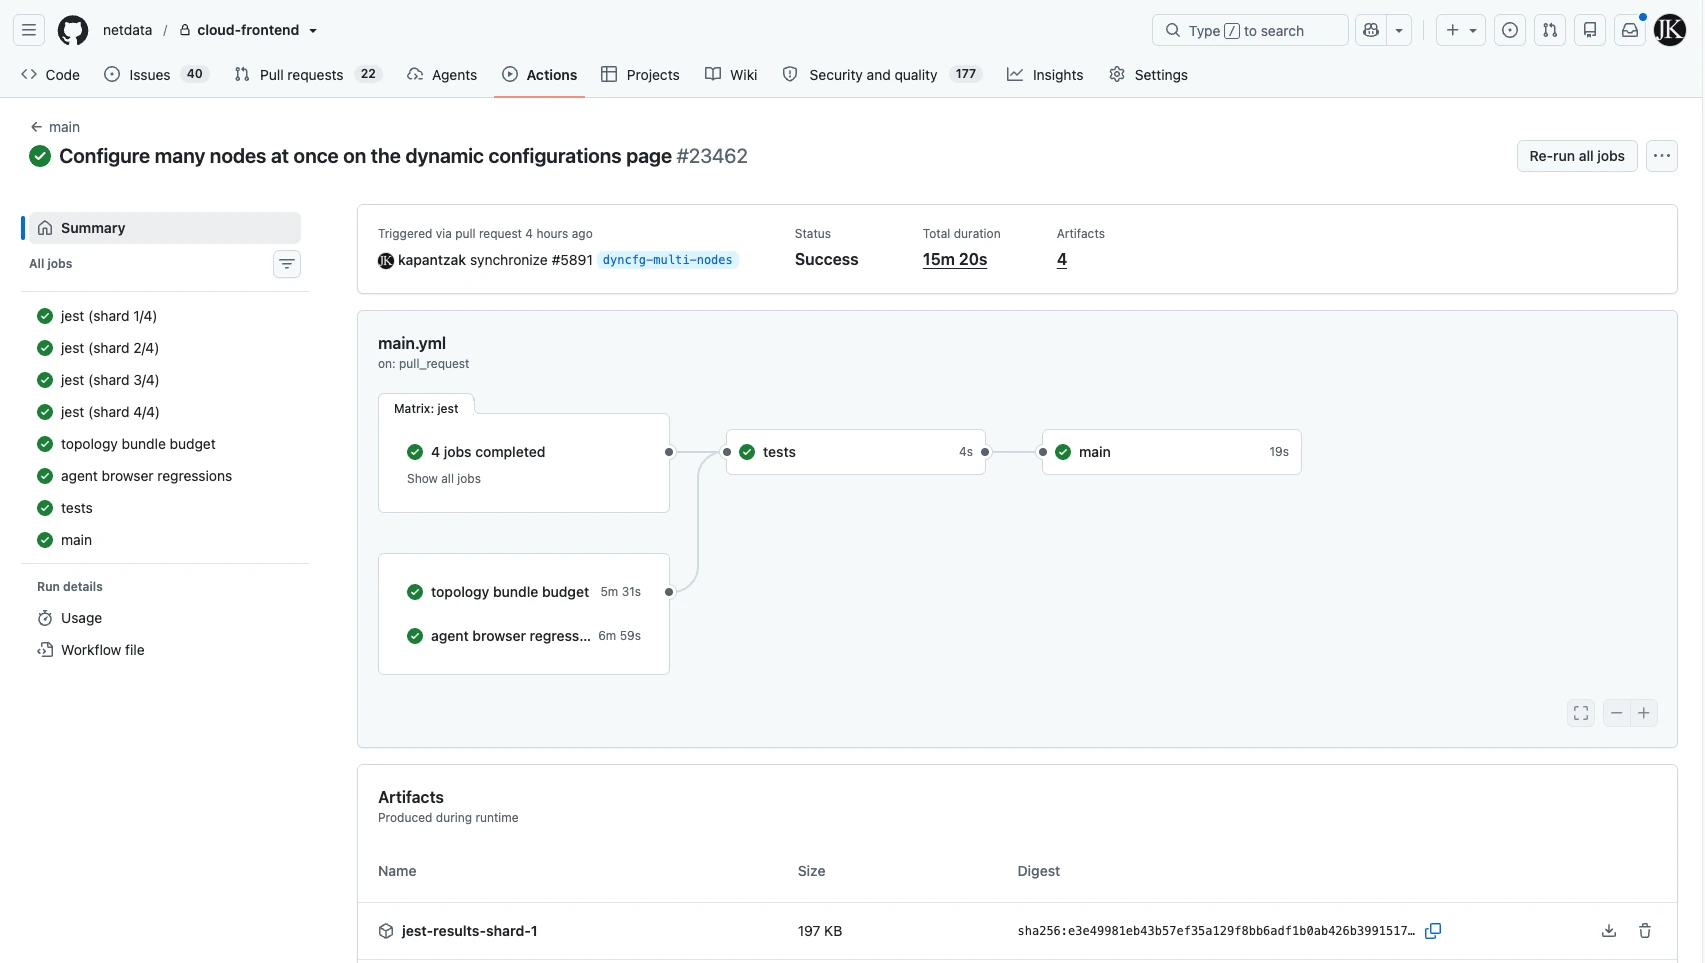
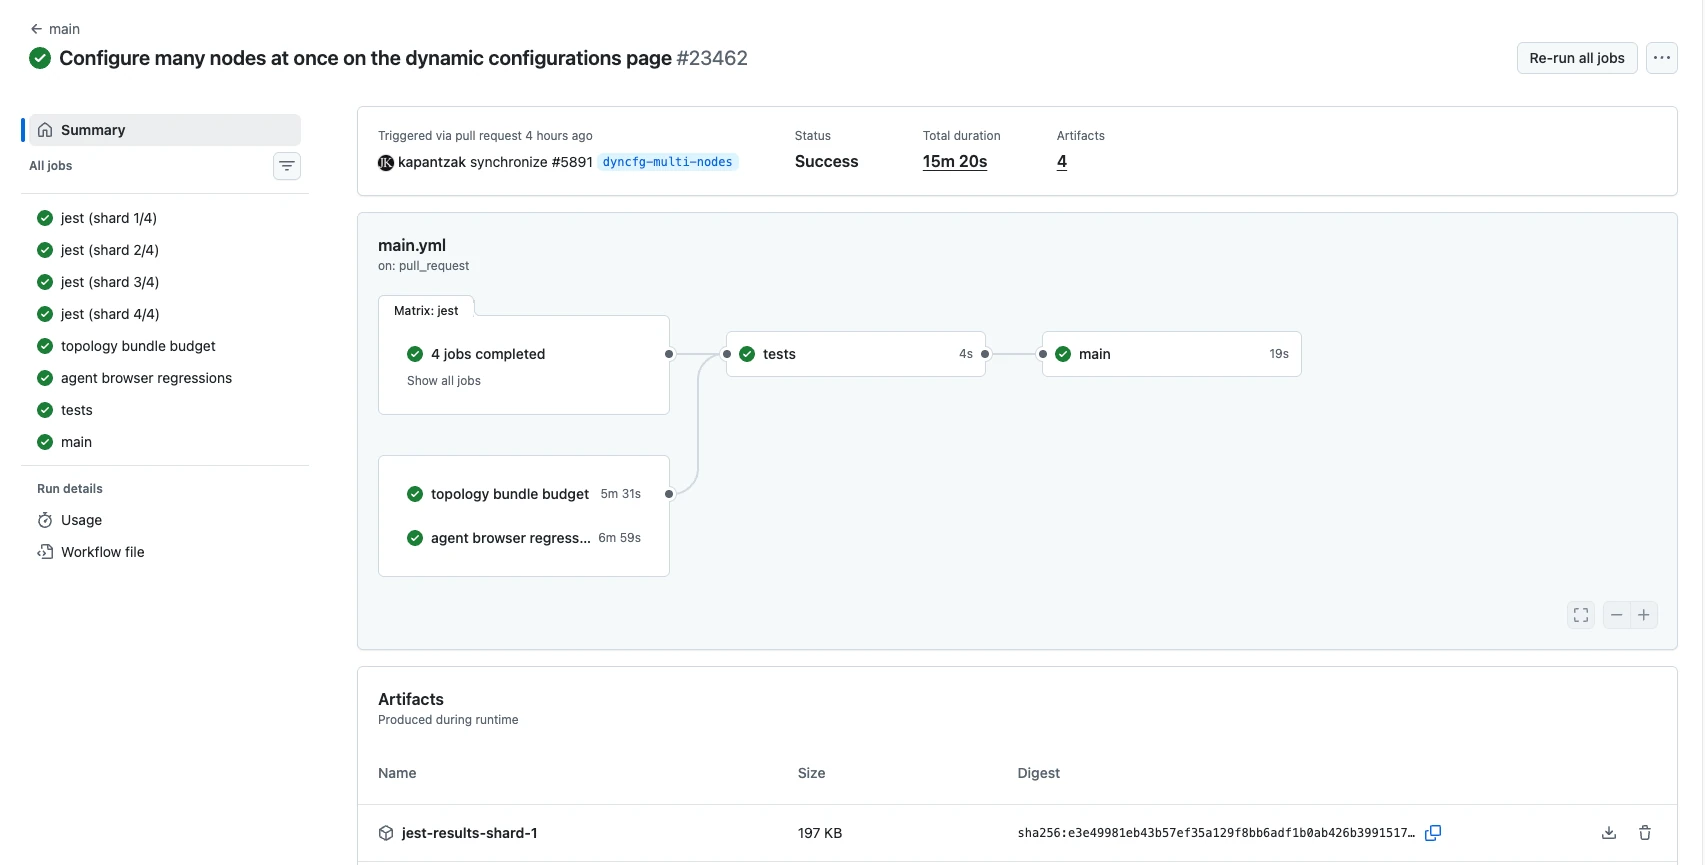
Crop GitHub's header from the CI screenshot
The header showed the private repository's name and its issue, pull
request and security counts.

diff --git a/docs/superpowers/specs/2026-10-02-personal-website-design.md b/docs/superpowers/specs/2026-10-02-personal-website-design.md
@@ -133,7 +133,7 @@ The user approved all decisions on 2026-10-02: 1–14 in the first round, 15–1
 | 105 | Contribution screenshots | *Superseded by 108.* Until real screenshots exist, every Netdata contribution shows the brand band's dashboard screenshot; the screenshots are decorative (empty `alt`, hidden from assistive technology), since the text carries the content |
 | 106 | Contributions on phones | Below 48rem, the screenshot is a flat, full-width strip under the text, fading in from its top, as in the brand band (decisions 57, 62) |
 | 107 | Contribution motion     | Where CSS scroll-driven animations are supported, each panel's text rises in and its screenshot turns from a steeper angle into its final tilt as the panel enters the sheet's view; static in Firefox and under `prefers-reduced-motion: reduce` |
-| 108 | Real screenshots         | Each Netdata contribution shows the user's own screenshot of the matching Netdata Cloud feature (about 16:9, captured at about 1714×964), stored as quality-90 WebP under `assets/stories/netdata/`; still decorative (empty `alt`, hidden from assistive technology); the Dynamic configuration screenshot has its workspace name and node picker blurred, because they name a colleague and their machine |
+| 108 | Real screenshots         | Each Netdata contribution shows the user's own screenshot of the matching Netdata Cloud feature (about 16:9, captured at about 1714×964), stored as quality-90 WebP under `assets/stories/netdata/`; still decorative (empty `alt`, hidden from assistive technology); the Dynamic configuration screenshot has its workspace name and node picker blurred, because they name a colleague and their machine; the CI screenshot is cropped below GitHub's header, which shows the private repository's name and its issue, pull request and security counts |
 | 109 | CI runtime claim         | The developer productivity text says the reported CI runtime dropped "by about 60%" instead of quoting minutes, so it agrees with the 15m 20s total run in its screenshot |
 
 ## 3. Scope
